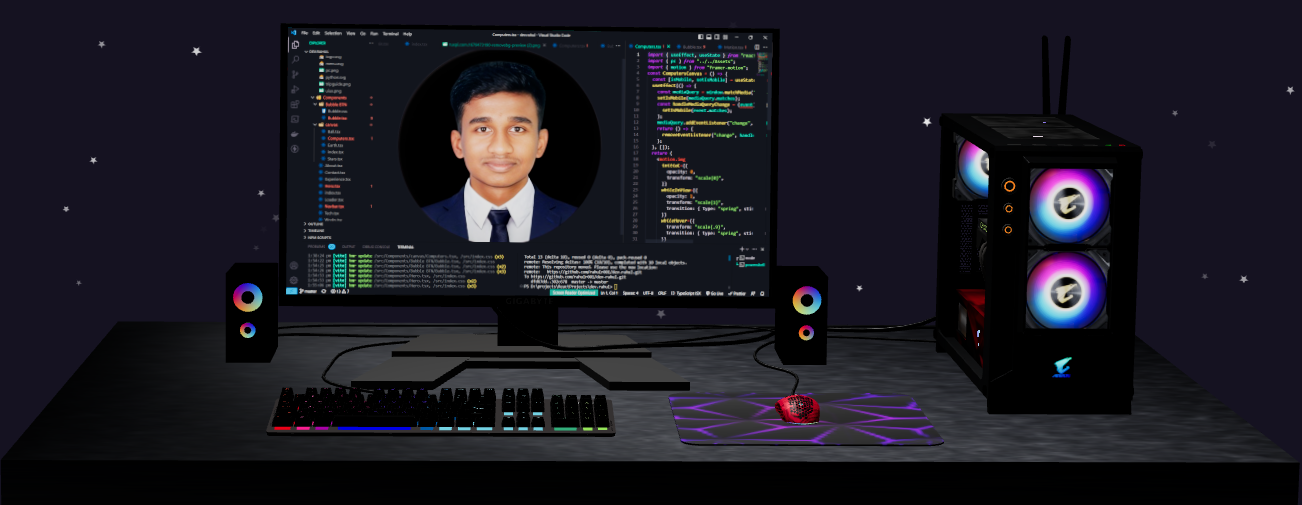
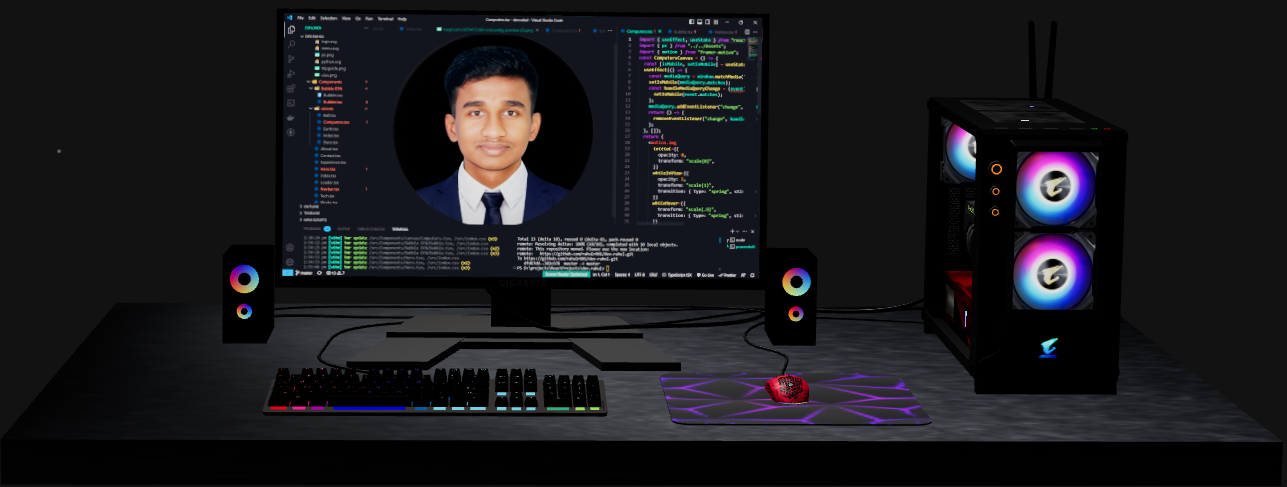
done some ui changes

diff --git a/src/Components/Hero.tsx b/src/Components/Hero.tsx
@@ -28,7 +28,7 @@ const Hero = () => {
       className={`relative w-full  mx-auto`}
     >
       <div
-        className={`absolute inset-0 top-[60px]  max-w-7xl mx-auto ${styles.paddingX} flex  flex-warp items-start gap-5`}
+        className={`absolute inset-0 top-[110px]  max-w-7xl mx-auto ${styles.paddingX} flex  flex-warp items-start gap-5`}
       >
         <motion.div
           initial={{
@@ -84,7 +84,7 @@ const Hero = () => {
               <motion.div
                 initial={{
                   opacity: 0,
-                  transform: "translateX(10vw) translateY(-5vw)",
+                  transform: "translateX(10vw) translateY(5vw)",
                 }}
                 whileInView={{
                   opacity: 1,
@@ -99,12 +99,12 @@ const Hero = () => {
             </div>
           </div>
           <Bubble />
-          {/* <ComputersCanvas /> */}
+          <ComputersCanvas />
         </div>
       </div>
       <div
         style={{ display: isMobile ? "none" : "flex" }}
-        className="absolute xs:bottom-20 bottom-32 w-full flex justify-center items-center"
+        className="absolute xs:bottom-10 bottom-32 w-full flex justify-center items-center"
       >
         <a href="#about">
           <div className="w-[35px] h-[64px] rounded-3xl border-4 border-secondary flex justify-center items-start p-2">

diff --git a/src/Utils/Motion.tsx b/src/Utils/Motion.tsx
@@ -1,34 +1,39 @@
 export const fadeIn = {
   hidden: {
     opacity: 0,
-
-    x: 200,
+    scale: 0,
+    // x: 200,
   },
   visible: (i = 1) => ({
     opacity: 1,
-    x: 0,
-
-    transition: { staggerChildren: 0.18, delayChildren: 0.2 * i },
+    // x: 0,
+    scale: 1,
+    transition: {  staggerChildren: 0.18, delayChildren: 0.2 * i },
   }),
 };
 
 export const child = {
   visible: {
     opacity: 1,
-    x: 0,
-    y: 0,
+    // x: 0,
+    // y: 0,
+    scale: 1,
     transition: {
       type: "spring",
-      damping: 10,
-      stiffness: 110,
+      damping: 5,
+
+      //   duration:5,
+      stiffness: 100,
     },
   },
   hidden: {
     opacity: 0,
-    x: 100,
-    y: 20,
+    scale: 0,
+    // x: 100,
+    // y: 20,
     transition: {
       type: "spring",
+      delay: 2,
       damping: 12,
       stiffness: 100,
     },
@@ -131,4 +136,16 @@ export const desc = {
       duration: 1,
     },
   },
+};
+
+export const staggerContainer = (staggerChildren, delayChildren) => {
+  return {
+    hidden: {},
+    show: {
+      transition: {
+        staggerChildren: staggerChildren,
+        delayChildren: delayChildren || 1,
+      },
+    },
+  };
 };

diff --git a/src/Components/Bubble BTN/Bubble.tsx b/src/Components/Bubble BTN/Bubble.tsx
@@ -35,7 +35,7 @@ const Bubble = () => {
           type: "spring",
           stiffness: 150,
           dumping: 15,
-          delay: 0.5,
+          delay: 1,
         }}
       >
         <motion.a
@@ -68,14 +68,14 @@ const Bubble = () => {
         </motion.a>
       </motion.div>
       <motion.div
-        initial={{ opacity: 0, transform: "translateY(-2vw)" }}
+        initial={{ opacity: 0, transform: "translateY(-5vw)" }}
         whileInView={{ opacity: 1, transform: "translateY(0vw)" }}
         transition={{
           duration: 2,
           type: "spring",
           stiffness: 150,
           dumping: 15,
-          delay: 0.7,
+          delay: 1.5,
         }}
       >
         <motion.a

diff --git a/src/Components/Navbar.tsx b/src/Components/Navbar.tsx
@@ -13,7 +13,7 @@ const Navbar = () => {
   const name = "ahul />";
   return (
     <nav
-      className={`${styles.paddingX} w-full flex items-center py-5 pb-0 sticky  top-0 z-20 bg-primary`}
+      className={`${styles.paddingX} w-full flex items-center py-5 pb-0 fixed top-0 z-20 bg-primary`}
     >
       <div className="w-full flex justify-between mx-auto max-w-7xl items-center">
         <motion.div
@@ -28,7 +28,7 @@ const Navbar = () => {
           transition={{ duration: 1.5, type: "spring" }}
         >
           <Link
-            to="/"
+            to="#"
             className="flex item-center gap-2"
             onClick={() => {
               setActive("");

diff --git a/src/Utils/SectionWraper.tsx b/src/Utils/SectionWraper.tsx
@@ -1,14 +1,15 @@
 import { motion } from "framer-motion";
 import { styles } from "../style";
+import { staggerContainer } from "./Motion";
 
 const SectionsWraper = (Component, idName) =>
   function HOC() {
     return (
       <motion.section
-        // variants={staggerContainer()}
-        // initial="hidden"
-        // whileInView="show"
-        // viewport={{ once: true, amount: 1 }}
+        variants={staggerContainer()}
+        initial="hidden"
+        whileInView="show"
+        viewport={{ once: true, amount: 1 }}
         className={`${styles.padding} max-w-7xl mx-auto relative z-0`}
       >
         <span className="hash-span" id={idName}>

diff --git a/src/App.tsx b/src/App.tsx
@@ -14,13 +14,13 @@ import { useEffect } from "react";
 import Statics from "./Components/GithunStatics/Statics";
 
 function App() {
-  //   if ("scrollRestoration" in history) {
-  //     history.scrollRestoration = "manual";
-  //   }
+    if ("scrollRestoration" in history) {
+      history.scrollRestoration = "manual";
+    }
 
-  //   useEffect(() => {
-  //     window.scrollTo(0, 0);
-  //   }, []);
+    useEffect(() => {
+      window.scrollTo(0, 0);
+    }, []);
   return (
     <Router>
       <div className="relative overflow-hidden  z-0 bg-primary">

diff --git a/src/index.css b/src/index.css
@@ -28,15 +28,15 @@
 }
 
 .black-gradient {
-    background: #4dba87;
+    background: #2d2e32;
     /* fallback for old browsers */
     background: -webkit-linear-gradient(to right,
-            #4dba87,
-            #4dba87);
+            #2d2e32,
+            #2d2e32);
     /* Chrome 10-25, Safari 5.1-6 */
     background: linear-gradient(to right,
-            #4dba87,
-            #4dba87);
+            #2d2e32,
+            #2d2e32);
 
     /* W3C, IE 10+/ Edge, Firefox 16+, Chrome 26+, Opera 12+, Safari 7+ */
 }

diff --git a/dist/index.html b/dist/index.html
@@ -10,8 +10,8 @@
 
     <meta name="viewport" content="width=device-width, initial-scale=1.0" />
     <title>Rahul's | Portfolio</title>
-  <script type="module" crossorigin src="/dev.rahul/assets/index-1e411d4b.js"></script>
-  <link rel="stylesheet" href="/dev.rahul/assets/index-a5511fd7.css">
+  <script type="module" crossorigin src="/dev.rahul/assets/index-deb6419d.js"></script>
+  <link rel="stylesheet" href="/dev.rahul/assets/index-03bb2140.css">
 </head>
 
 <body>

diff --git a/src/Components/canvas/Computers.tsx b/src/Components/canvas/Computers.tsx
@@ -63,7 +63,7 @@ const ComputersCanvas = () => {
           marginLeft: isMobile ? "0vh" : "3vw",
           position: isMobile ? "absolute" : "relative",
           width: isMobile ? "100%" : "80%",
-          left: isMobile ? "-1rem" : "2rem",
+          left: isMobile ? "0rem" : "2rem",
         }}
         src={pc}
       />
